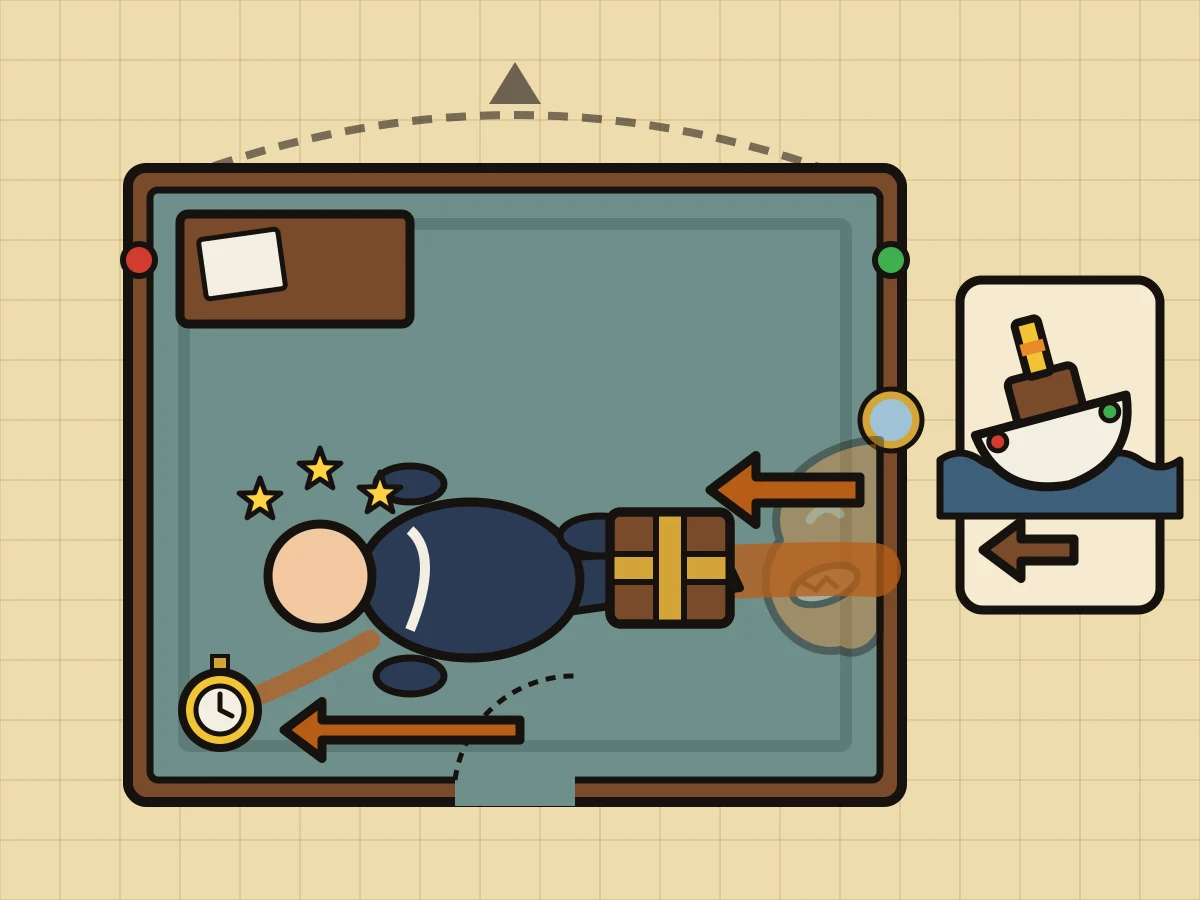
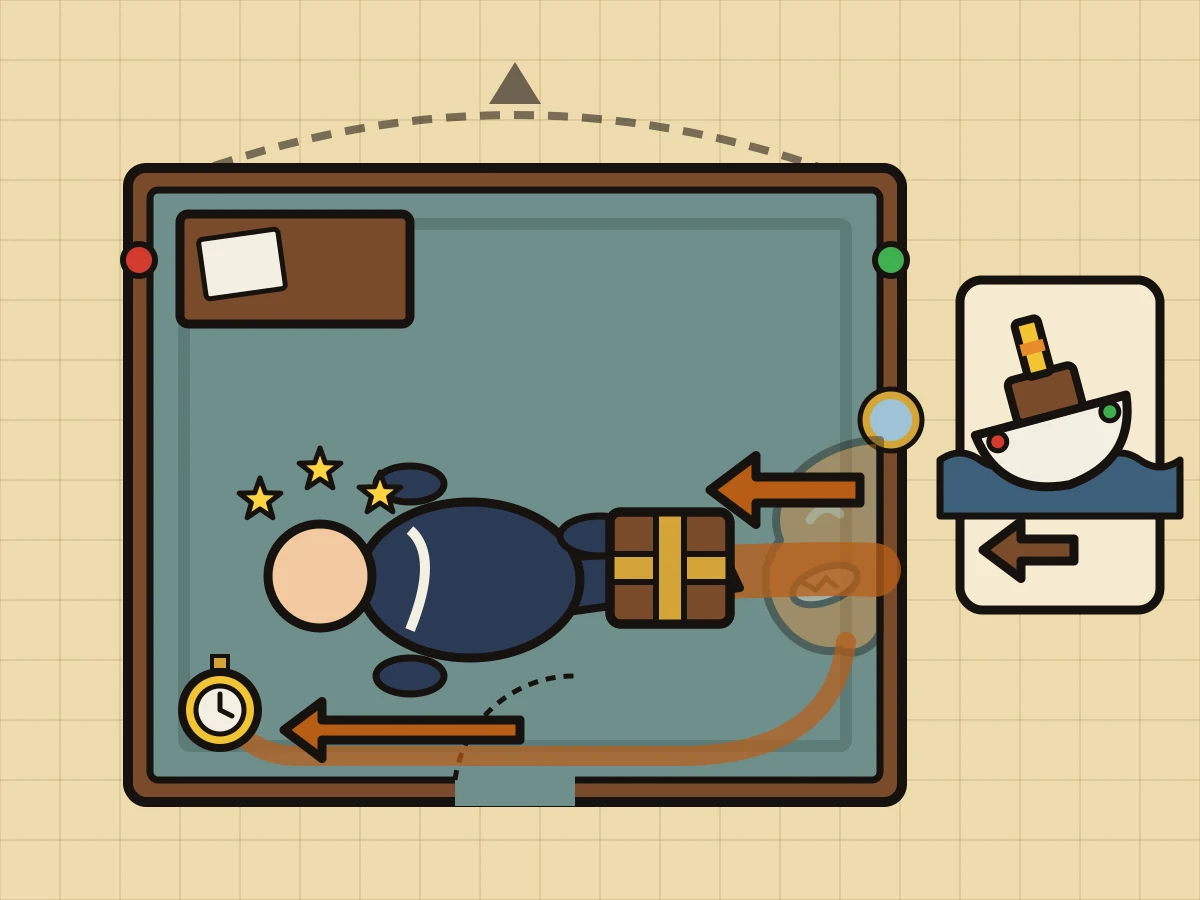
Tallyho: per-case sprite anchors + after-frame watch smear fix (#75)
* Tallyho: per-case sprite anchors (neutral, 6 suspects) + overlay check

* Tallyho ship-list frames v0.2 (Agatha's spec): marmalade-run_before/_after, remove ship-list-* frames, update ART_BIBLE and contact sheet

* Tallyho: point ship-list frame images at marmalade-run_before/_after (paths only; labels unchanged)

* Ship-list: restore #73 frames (Agatha retracted the v0.2 spec); after frame: watch smear starts at the pool, not the body

* case-sprites test: Tallyho now ships per-case anchors (6 neutrals)

Changed region(s): [[0.185, 0.6844, 0.7092, 0.8711], [0.2158, 0.6844, 0.3392, 0.7778]]

diff --git a/tests/components/case-sprites.test.ts b/tests/components/case-sprites.test.ts
@@ -70,7 +70,10 @@ describe("real assets", () => {
     const dir = path.join(process.cwd(), "cases", "_tallyho", "characters");
     const characters = readdirSync(dir).map((f) => ({ id: f.replace(/\.json$/, "") }));
     expect(characters.length).toBe(6);
-    expect(caseAnchors("_tallyho")).toEqual({});
+    // Toon's per-case anchors (neutral only for now): one entry per character, on the shared canvas baseline.
+    const anchors = caseAnchors("_tallyho");
+    expect(Object.keys(anchors).sort()).toEqual(characters.map((c) => c.id).sort());
+    for (const { id } of characters) expect(anchors[id]?.neutral?.feet).toEqual([392, 1200]);
     const sprites = caseCharacterSprites({ id: "_tallyho", characters });
     for (const { id } of characters) {
       const s = sprites[id]!;

diff --git a/docs/ART_BIBLE.md b/docs/ART_BIBLE.md
@@ -545,7 +545,9 @@ Not made yet (lean pass): the stateroom variants, `_lightning` frames and window
 
 `assets/cases/_tallyho/characters/<id>/neutral.webp`, the §8 sprite spec unchanged: 784×1224 RGBA, feet on y=1200, feet centre x=392, facing left, one uniform scale per character (heights against Reginald below). Lossy WebP q86, alpha q90. Prompt: §2 style + description + pose + facing line + §3 avoid list. Dame Gherkina wears green, so she is generated on a **pure magenta (#FF00FF)** key: the style line swaps green for magenta and the avoid list swaps "green clothing" for "magenta, pink or purple clothing". The other five use the green key.
 
-The other six poses (talking, angry, nervous, shocked, smug, sad) and the `anchors.json` entries come next, as image edits from these neutrals (§ Prompt assembly). The engine loads sprites from `assets/characters/<portrait>/` today, so these need either a per-case sprite path or a move there before they show in game.
+Anchors: `assets/cases/_tallyho/characters/anchors.json`, the same shape as `assets/characters/anchors.json` (same `canvas`, `facing`, `units`, `fields`; per pose `headCenter`, `headTop`, `faceFront`, `headBack`, `bodyCenter`, `bodyBack`, `feet`, `bboxTop`). Neutral entries for all six, measured from alpha with the Blackwood method (largest skin blob in the top 42% of the figure; Percy skips the top 17% so the plume and hat brim are not taken for her face). Hats count as the head top, as with Gregory's cap. Overlay check: `docs/art/tallyho_anchors.jpg`; script `toon-drafts/tallyho/anchors.py`. Not yet in `assets/effects/effects.json` `effectScale` (defaults to 1).
+
+The other six poses (talking, angry, nervous, shocked, smug, sad) and their anchor entries come next, as image edits from these neutrals (§ Prompt assembly). The engine loads sprites from `assets/characters/<portrait>/` today, so these need either a per-case sprite path or a move there before they show in game.
 
 | id | Height vs Reginald | Scale | Size |
 |---|---|---|---|
@@ -607,6 +609,8 @@ Chef Boris Buttercrumb, an original cartoon ship's chef: a huge, very tall and v
 ### 10.6 Ship-list diagram frames
 
 For the `ship-list` module (#72): `assets/cases/_tallyho/ship-list-<evidenceId>-before.webp` and `-after.webp`, 1200×900 (4:3), opaque warm chart paper, no baked text, vital content inside a 7% margin, q88 (about 36 KB each). One diagram clue: `marmalade-run`. Both frames are the same top-down plan of the stateroom as found (bow up, so port is left with a red lamp and starboard is right with a green lamp; door aft). Only the cues change: a stern-view heel gauge with a downhill arrow leans one way per frame, and the marks that the downhill direction explains are drawn at full strength while the rest are dimmed. Labels come from data. Code-drawn: `toon-drafts/tallyho/shiplist.py`.
+
+v0.1.1 (after frame only): the watch's smear now starts at the marmalade pool by the starboard wall and runs along the aft carpet, below the body, to the watch in the port corner (it used to start at the body's hip). Everything else, and the whole before frame, is unchanged.
 
 ### 10.7 Generation log
 
